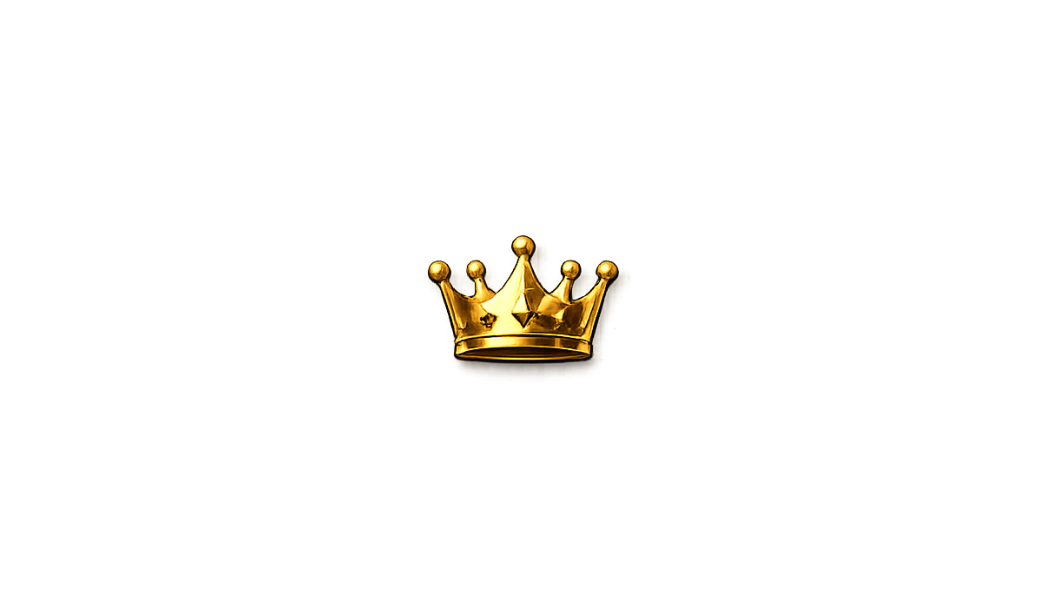
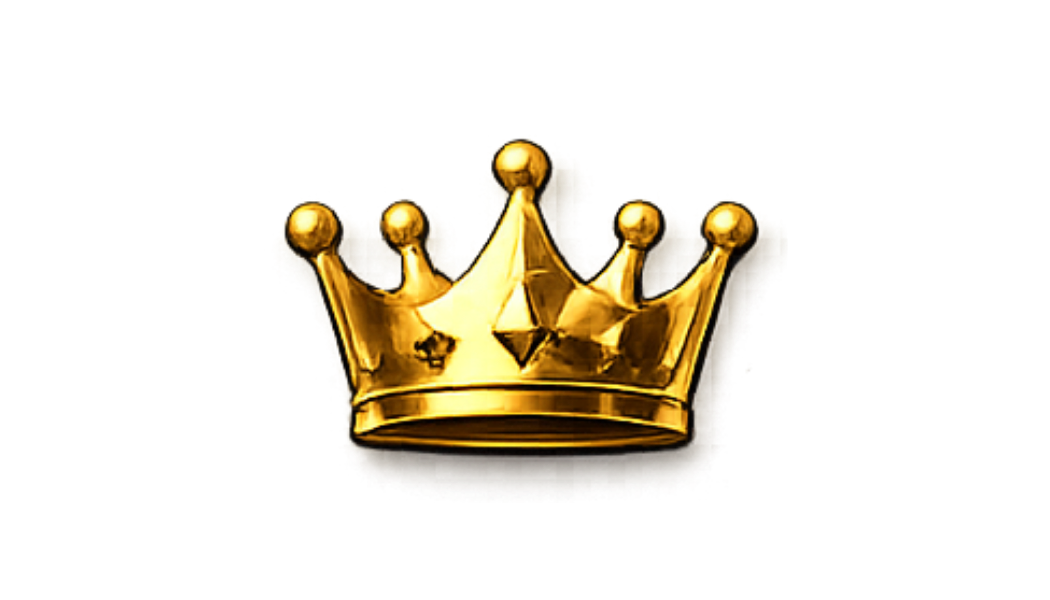
stable sidebar fix

Changed region(s): [[0.2438, 0.21, 0.7314, 0.81]]

diff --git a/public/index.html b/public/index.html
@@ -323,6 +323,36 @@ body.theme-dark .notificationWinHeader{background:#07111f;color:#fff;}
 body.theme-dark .notificationItem{background:#fff;color:#0f172a;border-color:#e5e7eb}body.theme-dark .notificationItem.unread{background:#fffbeb;border-color:#facc15}body.theme-dark .notificationItemTitle{color:#111827}body.theme-dark .notificationItemBody{color:#475569}
 @media(max-width:768px){.notificationWindow{right:10px;top:72px;width:calc(100vw - 20px)}.accountRightV2 .profileActivity,.profileRight .profileActivity{max-height:420px!important}.rankCrown{width:30px!important;height:30px!important}}
 
+
+
+/* Final profile/collection fixes 2026-06-14 */
+/* Profile right column: make Friends and Recent Activity separate cards like Account page */
+body.profileWide .profileRight{display:grid!important;grid-template-columns:1fr!important;gap:18px!important;align-content:start!important;align-items:start!important;position:sticky!important;top:104px!important;}
+body.profileWide .profileRight .profileFriends,
+body.profileWide .profileRight .profileActivity{display:block!important;background:rgba(255,255,255,.96)!important;border:1px solid rgba(226,232,240,.9)!important;border-radius:24px!important;box-shadow:0 16px 44px rgba(15,23,42,.14)!important;padding:18px!important;margin:0!important;max-height:none!important;overflow:hidden!important;}
+body.profileWide .profileRight .profileActivity{max-height:520px!important;overflow-y:auto!important;}
+body.profileWide .profileRight .friendsPanel,
+body.profileWide .profileRight .activityPanel{background:transparent!important;border:0!important;box-shadow:none!important;border-radius:0!important;padding:0!important;margin:0!important;}
+body.profileWide .profileRight .panelHead{display:flex!important;justify-content:space-between!important;align-items:center!important;margin:0!important;}
+body.profileWide .profileRight .panelHead h3,
+body.profileWide .profileRight .activityPanel h3{margin:0 0 12px 0!important;font-size:22px!important;font-weight:1000!important;color:#111827!important;}
+body.profileWide .profileRight .friendSearch{width:100%!important;margin:10px 0 10px!important;}
+body.profileWide .profileRight .activityItem{padding:12px 0!important;border-bottom:1px solid #e5e7eb!important;}
+body.profileWide .profileRight .activityItem:last-child{border-bottom:0!important;}
+/* Larger rank crown next to collection rank; intentionally bigger than the rank number */
+.collectionRankBox b{font-size:22px!important;gap:10px!important;line-height:1.2!important;}
+.collectionRankBox .rankCrown{width:52px!important;height:34px!important;object-fit:contain!important;vertical-align:middle!important;filter:drop-shadow(0 4px 5px rgba(0,0,0,.28))!important;}
+.collectionRankRow .rankCrown{width:34px!important;height:24px!important;object-fit:contain!important;vertical-align:middle!important;filter:drop-shadow(0 3px 4px rgba(0,0,0,.25))!important;}
+/* remove Real-time text under collection value */
+.collectionValueCard .muted{display:none!important;}
+/* Collection ranking panel: align to top of page area */
+#collection .panel.content{padding-top:18px!important;}
+#collectionBox{margin-top:0!important;}
+.collectionPageLayout{align-items:start!important;margin-top:0!important;padding-top:0!important;}
+.collectionRankPanel{align-self:start!important;margin-top:0!important;top:92px!important;}
+@media(max-width:1180px){body.profileWide .profileRight{position:static!important;grid-template-columns:1fr 1fr!important;}body.profileWide .profileRight .profileActivity{max-height:420px!important;}}
+@media(max-width:768px){body.profileWide .profileRight{grid-template-columns:1fr!important}.collectionRankBox .rankCrown{width:44px!important;height:30px!important}.collectionRankPanel{top:auto!important}}
+
 </style></head><body><header><div class="top"><a href="#home" class="brandLink brandImageLink" onclick="show('home');return false" aria-label="BidMarket"><img src="/assets/bidmarket-brand-gold.png" alt="BidMarket Global Auction Platform"></a><div id="auth"></div></div></header><nav class="nav"><div class="tabs"><button class="mobileMenuBtn" onclick="openMobileMenu()" aria-label="เปิดเมนู">☰</button><button onclick="show('home')">หน้าหลัก</button><button onclick="showVip()">VIP Zone</button><button onclick="show('ads')">ดูโฆษณา</button><button onclick="show('activities')">กิจกรรม</button><button onclick="show('rules')">กฏ/เงื่อนไข</button><button onclick="show('reviews')">รีวิว</button><button onclick="openProfilePage()">โปรไฟล์</button><button onclick="show('collection')">คอลเลคชั่น</button><button onclick="show('profile')">บัญชีผู้ใช้</button><button id="topAdminBtn" class="adminOnly" onclick="showAdmin()">Admin</button><div class="topUserSearch"><input id="topUserSearch" placeholder="ค้นหาชื่อบัญชี หรือ ID" onkeydown="if(event.key==='Enter')topSearchUsers()"><button class="green" onclick="topSearchUsers()">ค้นหา</button></div></div><div id="topSearchPanel" class="topSearchPanel hidden"></div></nav>
 <div id="mobileMenuOverlay" class="mobileMenuOverlay" onclick="closeMobileMenu()">
   <div class="mobileMenuPanel" onclick="event.stopPropagation()">
@@ -778,7 +808,7 @@ function renderProfileShowcase(items,owner,profileData){
   }).join('');
   const u=profileData?.user||{};
   const canCollection=!!profileData?.can_open_collection;
-  return `<div class="showcaseV3"><div class="showcaseLeft"><h3>ตู้โชว์สินค้า</h3><div class="showcaseGrid">${cards}</div></div><aside class="collectionSide"><section class="collectionValueCard"><div class="collectionTitle"><b>มูลค่าคอลเลคชั่น</b>${canCollection?`<button class="miniBtn" onclick="openCollectionVault()">∆</button>`:''}</div><div class="collectionValue" data-collection-value>${fmtNum(u.collection_value||0)} R</div><div class="muted">อัปเดตแบบ Real-time</div><div class="collectionRankBox"><span>อันดับคอลเลคชั่น</span><b data-collection-rank>${collectionRankText(profileData)}</b></div></section><section class="rcoinCard"><div class="rcoinLabel">บัญชี R-Coin</div><div class="rcoinValue" data-rcoin-balance>${fmtNum(u.r_coin||0)} R-Coin</div>${owner?`<button class="gold rcoinExchange" onclick="exchangeRCoin()">แลก R-Coin</button>`:''}</section></aside></div>`;
+  return `<div class="showcaseV3"><div class="showcaseLeft"><h3>ตู้โชว์สินค้า</h3><div class="showcaseGrid">${cards}</div></div><aside class="collectionSide"><section class="collectionValueCard"><div class="collectionTitle"><b>มูลค่าคอลเลคชั่น</b>${canCollection?`<button class="miniBtn" onclick="openCollectionVault()">∆</button>`:''}</div><div class="collectionValue" data-collection-value>${fmtNum(u.collection_value||0)} R</div><div class="collectionRankBox"><span>อันดับคอลเลคชั่น</span><b data-collection-rank>${collectionRankText(profileData)}</b></div></section><section class="rcoinCard"><div class="rcoinLabel">บัญชี R-Coin</div><div class="rcoinValue" data-rcoin-balance>${fmtNum(u.r_coin||0)} R-Coin</div>${owner?`<button class="gold rcoinExchange" onclick="exchangeRCoin()">แลก R-Coin</button>`:''}</section></aside></div>`;
 }
 async function boostShowcaseValue(id){
   try{await api('/api/profiles/showcase/'+id+'/boost-value',{method:'POST',body:JSON.stringify({})});await renderPublicProfile();showToast('เพิ่มมูลค่า +100 R แล้ว')}catch(e){alert(e.message)}
@@ -1156,5 +1186,35 @@ body.theme-dark .leftMenu button,body.theme-dark button.light{background:#fff!im
 .rankNo{font-weight:900;text-align:center}.rankAvatar{width:34px;height:34px;border-radius:50%;object-fit:cover;border:2px solid #e5e7eb}.rankName{font-weight:800;white-space:nowrap;overflow:hidden;text-overflow:ellipsis}.rankScore{white-space:nowrap;display:flex;align-items:center;gap:4px}.showCaseBtn{padding:7px 10px!important;font-size:12px!important;margin:0!important;}
 @media(max-width:1100px){.collectionPageLayout{grid-template-columns:1fr}.collectionRankPanel{position:static;max-height:520px}.collectionAuctionGrid{grid-template-columns:1fr 1fr}}
 @media(max-width:700px){.collectionAuctionGrid{grid-template-columns:1fr}.collectionRankRow{grid-template-columns:28px 34px 1fr;}.rankScore,.showCaseBtn{grid-column:3}.showCaseBtn{width:max-content}}
+
+
+
+/* Final profile/collection fixes 2026-06-14 */
+/* Profile right column: make Friends and Recent Activity separate cards like Account page */
+body.profileWide .profileRight{display:grid!important;grid-template-columns:1fr!important;gap:18px!important;align-content:start!important;align-items:start!important;position:sticky!important;top:104px!important;}
+body.profileWide .profileRight .profileFriends,
+body.profileWide .profileRight .profileActivity{display:block!important;background:rgba(255,255,255,.96)!important;border:1px solid rgba(226,232,240,.9)!important;border-radius:24px!important;box-shadow:0 16px 44px rgba(15,23,42,.14)!important;padding:18px!important;margin:0!important;max-height:none!important;overflow:hidden!important;}
+body.profileWide .profileRight .profileActivity{max-height:520px!important;overflow-y:auto!important;}
+body.profileWide .profileRight .friendsPanel,
+body.profileWide .profileRight .activityPanel{background:transparent!important;border:0!important;box-shadow:none!important;border-radius:0!important;padding:0!important;margin:0!important;}
+body.profileWide .profileRight .panelHead{display:flex!important;justify-content:space-between!important;align-items:center!important;margin:0!important;}
+body.profileWide .profileRight .panelHead h3,
+body.profileWide .profileRight .activityPanel h3{margin:0 0 12px 0!important;font-size:22px!important;font-weight:1000!important;color:#111827!important;}
+body.profileWide .profileRight .friendSearch{width:100%!important;margin:10px 0 10px!important;}
+body.profileWide .profileRight .activityItem{padding:12px 0!important;border-bottom:1px solid #e5e7eb!important;}
+body.profileWide .profileRight .activityItem:last-child{border-bottom:0!important;}
+/* Larger rank crown next to collection rank; intentionally bigger than the rank number */
+.collectionRankBox b{font-size:22px!important;gap:10px!important;line-height:1.2!important;}
+.collectionRankBox .rankCrown{width:52px!important;height:34px!important;object-fit:contain!important;vertical-align:middle!important;filter:drop-shadow(0 4px 5px rgba(0,0,0,.28))!important;}
+.collectionRankRow .rankCrown{width:34px!important;height:24px!important;object-fit:contain!important;vertical-align:middle!important;filter:drop-shadow(0 3px 4px rgba(0,0,0,.25))!important;}
+/* remove Real-time text under collection value */
+.collectionValueCard .muted{display:none!important;}
+/* Collection ranking panel: align to top of page area */
+#collection .panel.content{padding-top:18px!important;}
+#collectionBox{margin-top:0!important;}
+.collectionPageLayout{align-items:start!important;margin-top:0!important;padding-top:0!important;}
+.collectionRankPanel{align-self:start!important;margin-top:0!important;top:92px!important;}
+@media(max-width:1180px){body.profileWide .profileRight{position:static!important;grid-template-columns:1fr 1fr!important;}body.profileWide .profileRight .profileActivity{max-height:420px!important;}}
+@media(max-width:768px){body.profileWide .profileRight{grid-template-columns:1fr!important}.collectionRankBox .rankCrown{width:44px!important;height:30px!important}.collectionRankPanel{top:auto!important}}
 
 </style>

diff --git a/public_inline.js b/public_inline.js
@@ -361,7 +361,7 @@ function renderProfileShowcase(items,owner,profileData){
   }).join('');
   const u=profileData?.user||{};
   const canCollection=!!profileData?.can_open_collection;
-  return `<div class="showcaseV3"><div class="showcaseLeft"><h3>ตู้โชว์สินค้า</h3><div class="showcaseGrid">${cards}</div></div><aside class="collectionSide"><section class="collectionValueCard"><div class="collectionTitle"><b>มูลค่าคอลเลคชั่น</b>${canCollection?`<button class="miniBtn" onclick="openCollectionVault()">∆</button>`:''}</div><div class="collectionValue" data-collection-value>${fmtNum(u.collection_value||0)} R</div><div class="muted">อัปเดตแบบ Real-time</div><div class="collectionRankBox"><span>อันดับคอลเลคชั่น</span><b data-collection-rank>${collectionRankText(profileData)}</b></div></section><section class="rcoinCard"><div class="rcoinLabel">บัญชี R-Coin</div><div class="rcoinValue" data-rcoin-balance>${fmtNum(u.r_coin||0)} R-Coin</div>${owner?`<button class="gold rcoinExchange" onclick="exchangeRCoin()">แลก R-Coin</button>`:''}</section></aside></div>`;
+  return `<div class="showcaseV3"><div class="showcaseLeft"><h3>ตู้โชว์สินค้า</h3><div class="showcaseGrid">${cards}</div></div><aside class="collectionSide"><section class="collectionValueCard"><div class="collectionTitle"><b>มูลค่าคอลเลคชั่น</b>${canCollection?`<button class="miniBtn" onclick="openCollectionVault()">∆</button>`:''}</div><div class="collectionValue" data-collection-value>${fmtNum(u.collection_value||0)} R</div><div class="collectionRankBox"><span>อันดับคอลเลคชั่น</span><b data-collection-rank>${collectionRankText(profileData)}</b></div></section><section class="rcoinCard"><div class="rcoinLabel">บัญชี R-Coin</div><div class="rcoinValue" data-rcoin-balance>${fmtNum(u.r_coin||0)} R-Coin</div>${owner?`<button class="gold rcoinExchange" onclick="exchangeRCoin()">แลก R-Coin</button>`:''}</section></aside></div>`;
 }
 async function boostShowcaseValue(id){
   try{await api('/api/profiles/showcase/'+id+'/boost-value',{method:'POST',body:JSON.stringify({})});await renderPublicProfile();showToast('เพิ่มมูลค่า +100 R แล้ว')}catch(e){alert(e.message)}